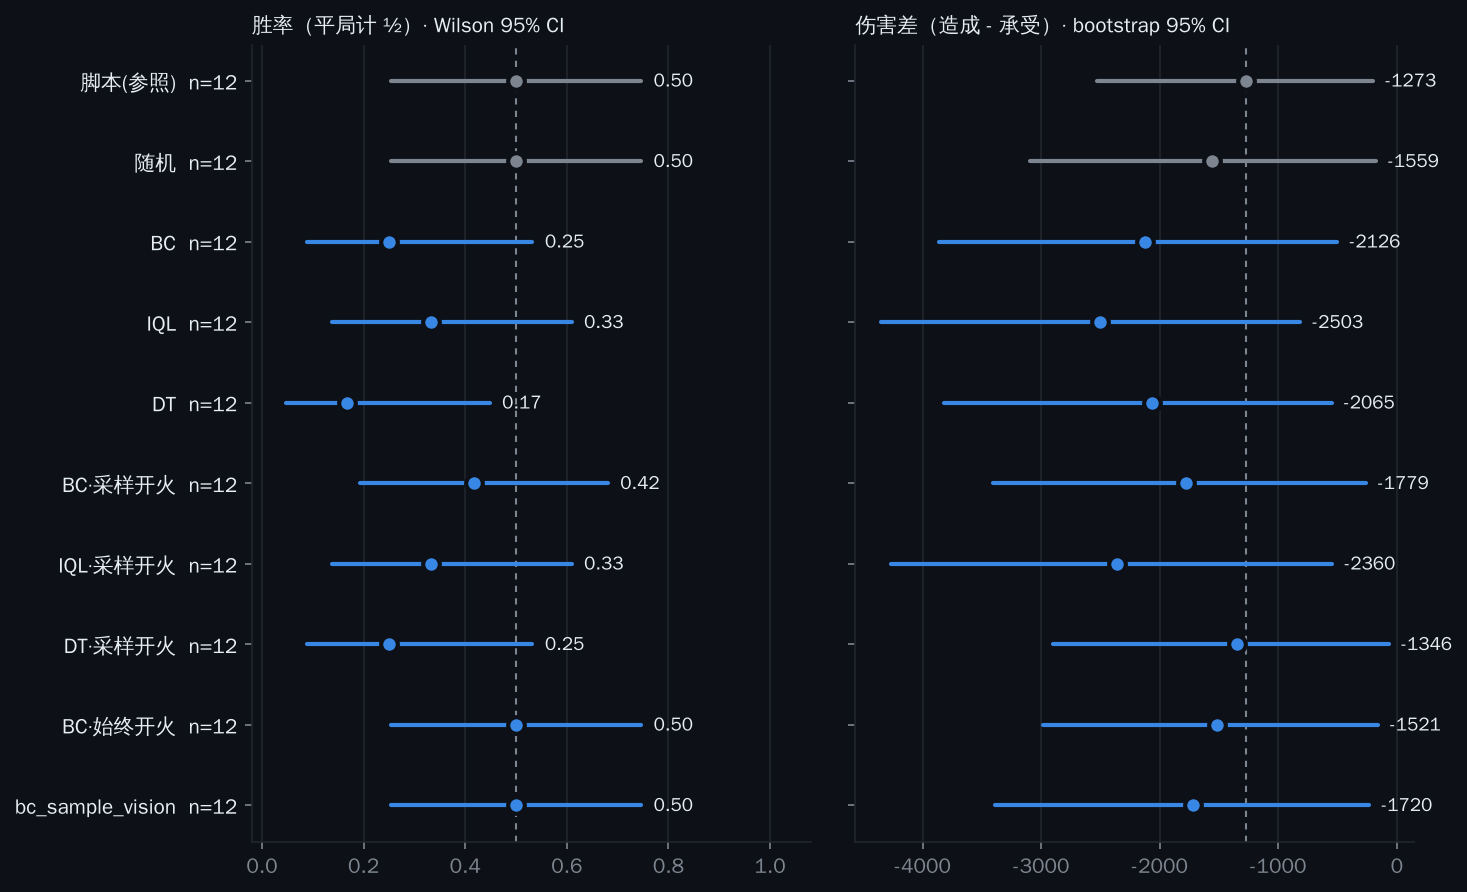
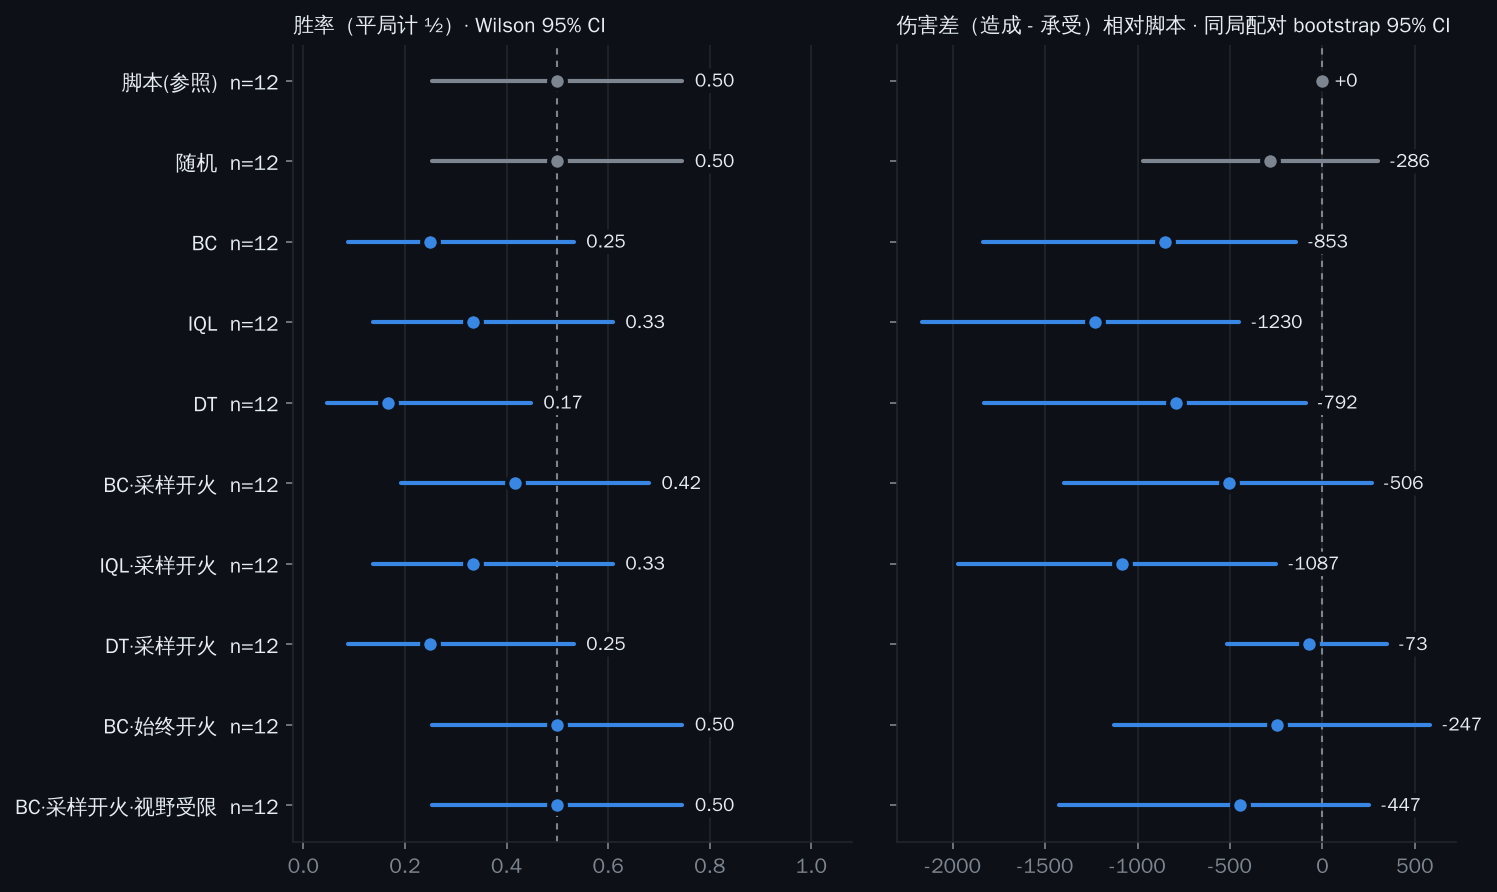
Plot closed-loop damage as a paired difference against the script arm
Opponents range from one every arm beats to one every arm loses to, so
unpaired intervals over the 12 matches mostly measure the opponent mix. The
damage panel now shows dealt-minus-taken relative to the script arm on the
same (opponent, seed, side), the quantity the summary's conclusions rest on.

Claude-Session: https://claude.ai/code/session_01B7H4czn5saBoHsdbwbTRHk

diff --git a/viz/sim_figures.py b/viz/sim_figures.py
@@ -3,8 +3,10 @@
     python -m viz.sim_figures --closed-loop docs/arena/results_real.jsonl \\
         --mappo rm_runs/arena/mappo_from_bc --out viz/figures
 
-closed_loop.png  per arm: win rate (Wilson 95% CI) and mean damage difference
-                 (dealt - taken, bootstrap 95% CI), on the shared match grid
+closed_loop.png  per arm: win rate (Wilson 95% CI), and the damage difference
+                 (dealt - taken) relative to the script arm on the same matches
+                 (paired, bootstrap 95% CI) — opponents differ wildly in
+                 strength, so only the paired difference separates the arms
 mappo.png        MAPPO fine-tuning: rollout win rate, damage difference and
                  KL to the offline prior per iteration
 """
@@ -20,11 +22,12 @@ TH = dict(bg="#0d1117", fg="#e6edf3", dim="#7d8590", grid="#21262d")
 SERIES = "#3987e5"          # one series per panel: the categorical slot-1 dark step
 REF = "#7d8590"
 ORDER = ["script", "random", "bc", "iql", "dt", "bc_sample", "iql_sample", "dt_sample",
-         "bc_auto", "iql_auto", "dt_auto", "bc_vision", "mappo", "mappo_sample"]
+         "bc_auto", "iql_auto", "dt_auto", "bc_vision", "bc_sample_vision", "mappo", "mappo_sample"]
 LABEL = {"script": "脚本(参照)", "random": "随机", "bc": "BC", "iql": "IQL", "dt": "DT",
          "bc_sample": "BC·采样开火", "iql_sample": "IQL·采样开火", "dt_sample": "DT·采样开火",
          "bc_auto": "BC·始终开火", "iql_auto": "IQL·始终开火", "dt_auto": "DT·始终开火",
-         "bc_vision": "BC·视野受限", "mappo": "MAPPO", "mappo_sample": "MAPPO·采样开火"}
+         "bc_vision": "BC·视野受限", "bc_sample_vision": "BC·采样开火·视野受限",
+         "mappo": "MAPPO", "mappo_sample": "MAPPO·采样开火"}
 
 
 def _style(plt, font):
@@ -50,17 +53,20 @@ def closed_loop(path, out, plt, min_n=1):
     count = {a: sum(r["arm"] == a for r in rows) for a in {r["arm"] for r in rows}}
     arms = [a for a in ORDER if count.get(a, 0) >= min_n]
     arms += sorted(a for a in count if a not in ORDER and count[a] >= min_n)
+    key = lambda r: (r["opponent"], r["seed"], r["side"])
+    ref = {key(r): r["damage"] - r["damage_enemy"] for r in rows if r["arm"] == "script"}
     stats = []
     for a in arms:
         rs = [r for r in rows if r["arm"] == a]
         score = sum(r["win"] for r in rs)
-        dd = [r["damage"] - r["damage_enemy"] for r in rs]
-        stats.append((a, len(rs), score / len(rs), wilson(score, len(rs)), float(np.mean(dd)), bootstrap_ci(dd)))
+        dd = [r["damage"] - r["damage_enemy"] - ref[key(r)] for r in rs if key(r) in ref]
+        stats.append((a, len(rs), score / len(rs), wilson(score, len(rs)),
+                      float(np.mean(dd)) if dd else np.nan, bootstrap_ci(dd) if len(dd) > 1 else (np.nan,) * 2))
     fig, axes = plt.subplots(1, 2, figsize=(10, 0.55 * len(arms) + 1.4), facecolor=TH["bg"],
                              sharey=True, gridspec_kw=dict(wspace=0.08))
     y = np.arange(len(stats))[::-1]
     panels = [(axes[0], 2, 3, "胜率（平局计 ½）· Wilson 95% CI", "{:.2f}"),
-              (axes[1], 4, 5, "伤害差（造成 - 承受）· bootstrap 95% CI", "{:+.0f}")]
+              (axes[1], 4, 5, "伤害差（造成 - 承受）相对脚本 · 同局配对 bootstrap 95% CI", "{:+.0f}")]
     for ax, vi, ci, title, fmt in panels:
         _axes(ax)
         for yy, s in zip(y, stats):
@@ -68,11 +74,13 @@ def closed_loop(path, out, plt, min_n=1):
             col = REF if s[0] in ("script", "random") else SERIES
             ax.plot([lo, hi], [yy, yy], color=col, lw=2, solid_capstyle="round")
             ax.plot(s[vi], yy, "o", ms=8, color=col, mec=TH["bg"], mew=2, zorder=3)
-            ax.annotate(fmt.format(s[vi]), (hi, yy), xytext=(6, 0), textcoords="offset points",
-                        va="center", fontsize=9, color=TH["fg"])
-        ref = next((s for s in stats if s[0] == "script"), None)
-        if ref is not None:
-            ax.axvline(ref[vi], color=REF, lw=1, ls=(0, (3, 3)), zorder=1)
+            if np.isfinite(s[vi]):
+                ax.annotate(fmt.format(s[vi]), (s[vi] if not np.isfinite(hi) else hi, yy), xytext=(6, 0),
+                            textcoords="offset points", va="center", fontsize=9, color=TH["fg"], zorder=4,
+                            bbox=dict(boxstyle="round,pad=0.15", fc=TH["bg"], ec="none"))
+        base = next((s for s in stats if s[0] == "script"), None)
+        if base is not None:
+            ax.axvline(base[vi], color=REF, lw=1, ls=(0, (3, 3)), zorder=1)
         ax.set_title(title, fontsize=10, color=TH["fg"], loc="left")
     axes[0].set_yticks(y, [f"{LABEL.get(s[0], s[0])}  n={s[1]}" for s in stats], color=TH["fg"])
     axes[0].set_xlim(-0.02, 1.08)
